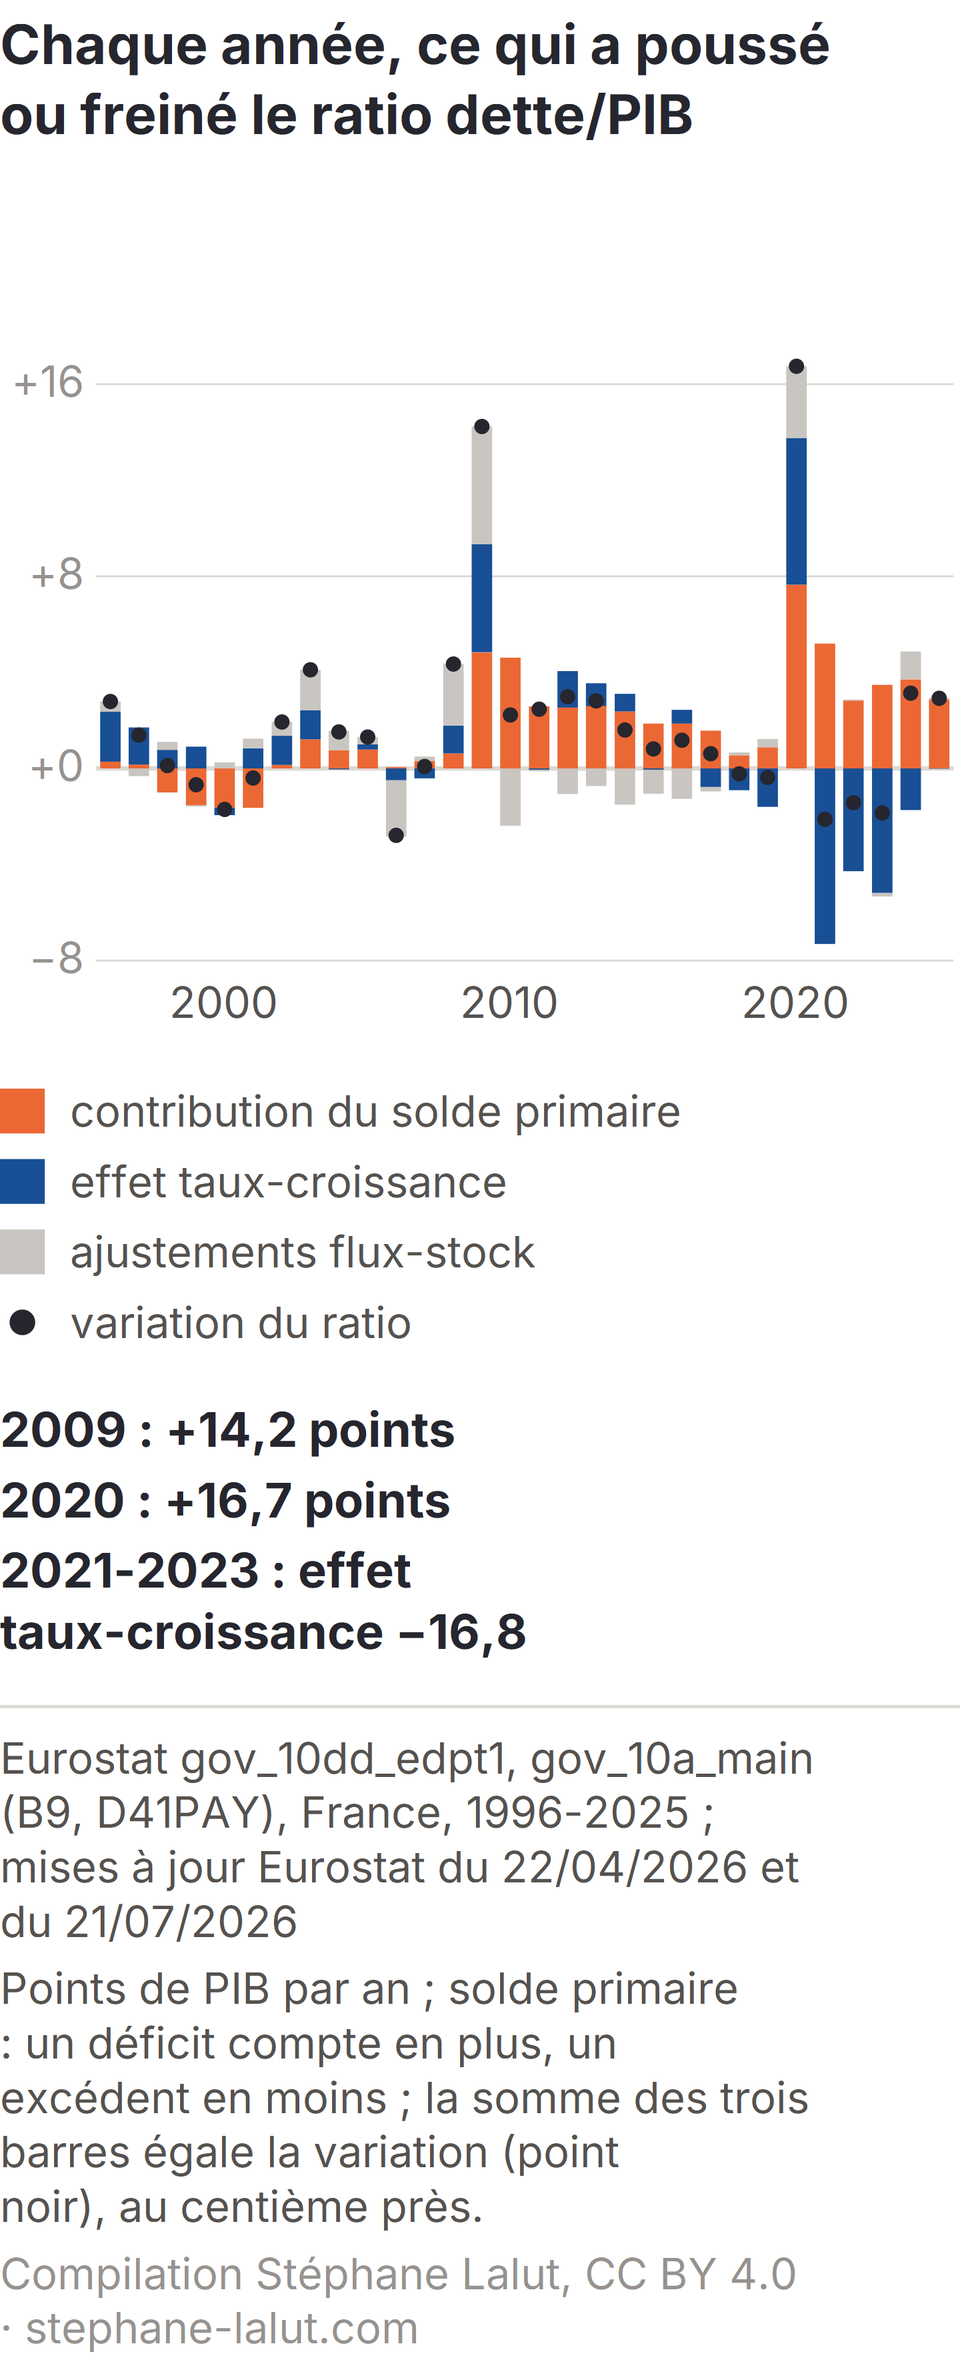
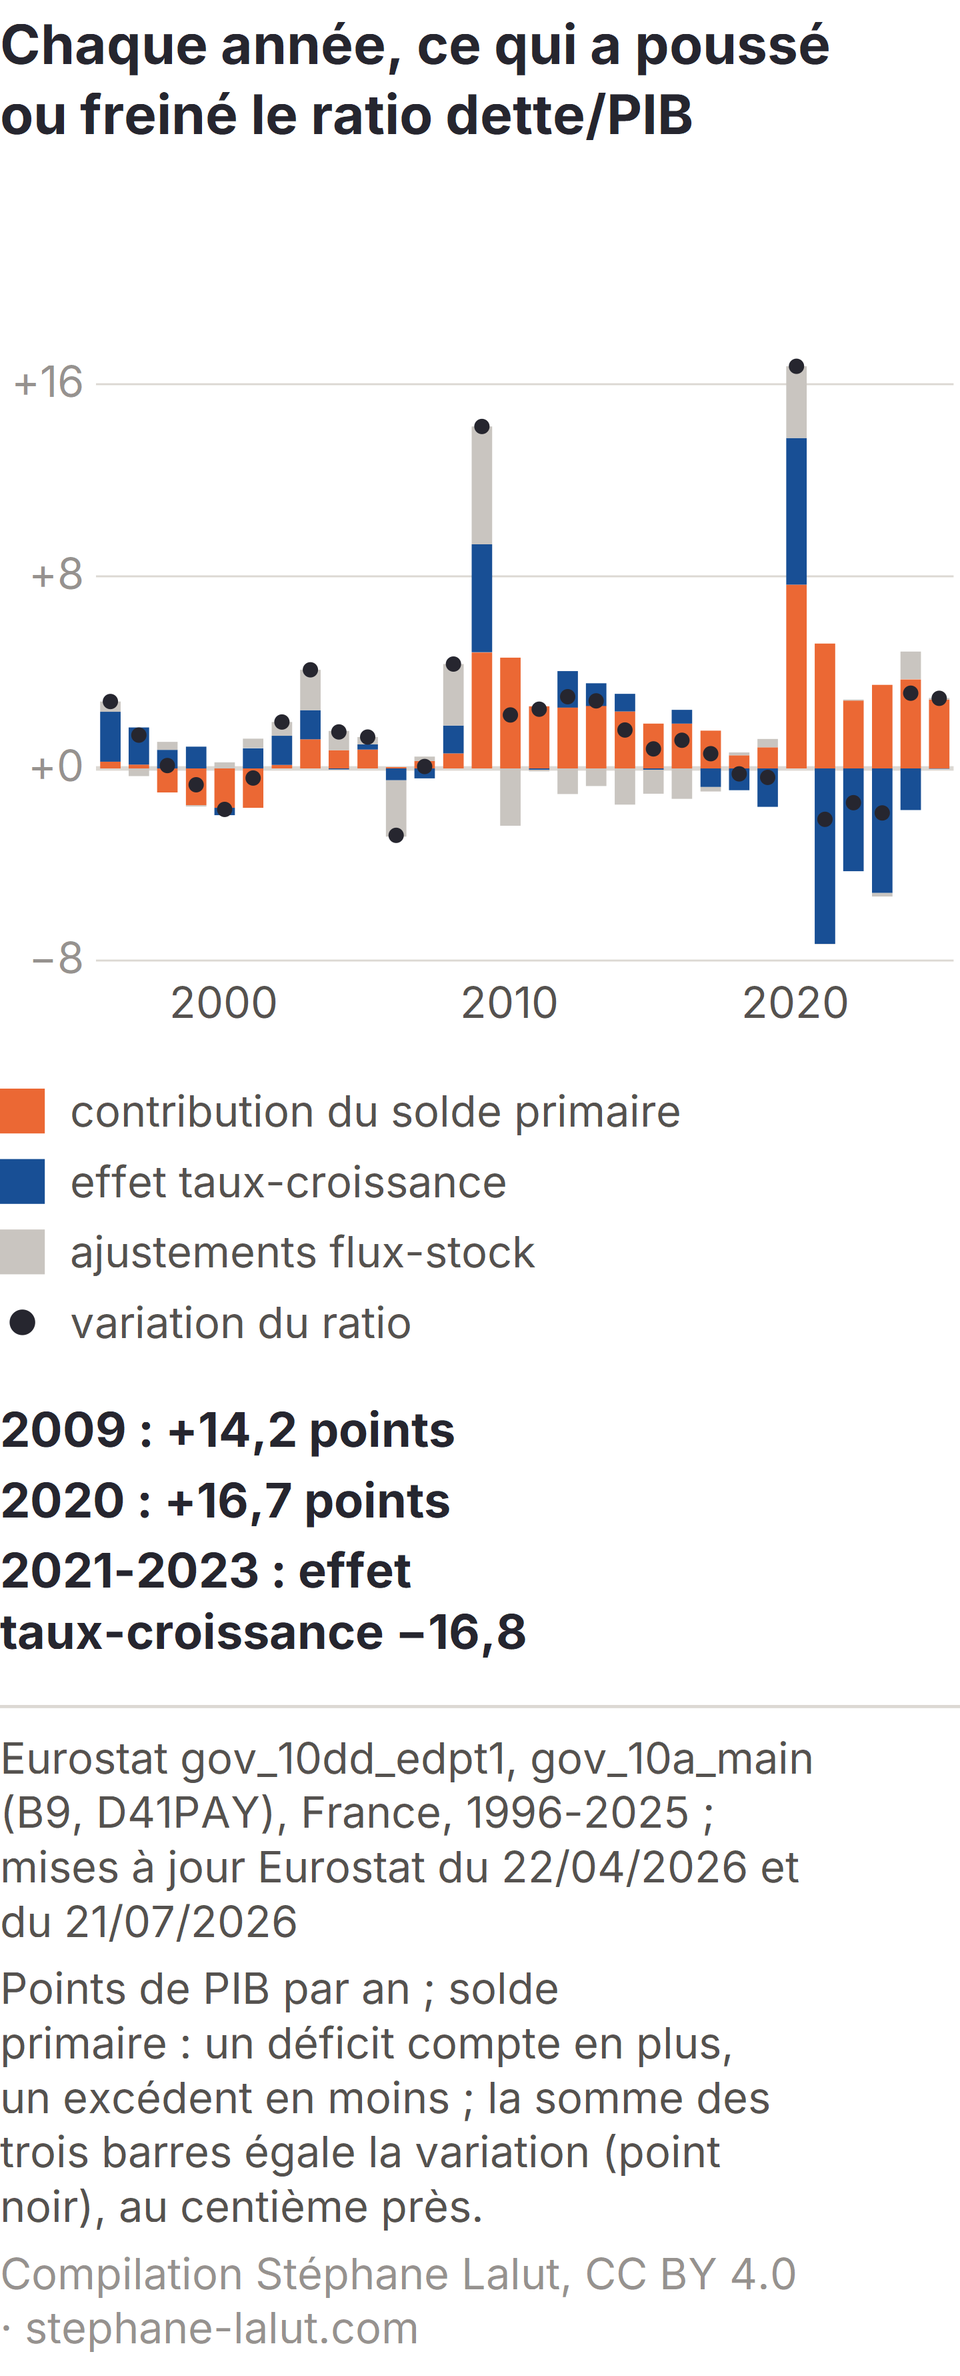
fix(dette): volet 1, OPTIMUM-15 -- ecart Eurostat / INSEE de fin 2025 dit, marge du retournement 2019-2025, FR et EN
- millesime : l'INSEE publie 115,7 % pour fin 2025 contre 115,6 % dans la
  notification d'Eurostat ; la page garde Eurostat d'un bout a l'autre (jeton
  lu dans le jeu du volet 2, garde : ecart non nul et au plus 0,5 point)
- retournement 2019-2025 : la hausse des depenses ne l'emporte que de 0,3 point,
  une revision de cet ordre suffirait a le retourner (garde vue mordre)
- exemple des interets : « sans autre depense, recette ni operation financiere »
- figures : espaces insecables avant « : » et « ; » dans les pieds (coupure
  commune du 11/10) ; donnees et CSV identiques

Controles : generateur (70 cles, parite, hauteurs), build ($?=0), check-all --ci
a 0, audit-liens-build 0 critique.

Changed region(s): [[0.0, 0.8102, 0.8438, 0.9349]]

diff --git a/scripts/update_dette_dynamique.py b/scripts/update_dette_dynamique.py
@@ -522,10 +522,21 @@ def csv_texte(rows):
 
 
 # ------------------------------------------------------------------ affichage et gardes
+def dette_insee_fin(annee: int):
+    """Dette de Maastricht au T4 de la derniere annee selon l'INSEE (data/dette_officielle.json, jeu du volet 2), pour
+    dire l'ecart avec la notification d'Eurostat que la page utilise d'un bout a l'autre (OPTIMUM-15). Absente : None."""
+    try:
+        o = json.loads((ROOT / "data" / "dette_officielle.json").read_text(encoding="utf-8"))
+        return float(o["dette_trimestrielle"]["series"]["pct_pib"]["%d-Q4" % annee])
+    except (OSError, ValueError, KeyError):
+        return None
+
+
 def affichage(a0, d_depart, rows, total, per, dr):
     """Rend (affichage, affichage_en) : deux présentations d'un seul corps de valeurs, puis les gardes (une passe,
     numérique, valable pour les deux langues)."""
     last = rows[-1]
+    insee_fin = dette_insee_fin(last["annee"])
     infl = [r for r in rows if 2021 <= r["annee"] <= 2023]
     by = {r["annee"]: r for r in rows}
 
@@ -576,6 +587,11 @@ def affichage(a0, d_depart, rows, total, per, dr):
         A["croise_dep_hi"] = sg(dr[fen["ofce"][1]]["depenses_hors_interets"] - dr[fen["tresor"][0]]["depenses_hors_interets"])
         # Contre-expertise de la page construite (OPTIMUM-10) : le retournement entre les deux fenêtres de même départ.
         A["rec_fin"] = sg(dr[fen["tresor"][1]]["recettes"] - dr[fen["ofce"][1]]["recettes"])
+        # OPTIMUM-15 : marge du retournement sur la fenetre du Tresor (hausse des depenses hors interets moins recul
+        # des recettes, en points de PIB), et valeur de l'INSEE pour la derniere fin d'annee.
+        A["tresor_marge"] = nb(abs((dr[fen["tresor"][1]]["depenses_hors_interets"] - dr[fen["tresor"][0]]["depenses_hors_interets"])
+                                   + (dr[fen["tresor"][1]]["recettes"] - dr[fen["tresor"][0]]["recettes"])))
+        A["dette_insee_fin"] = nb(insee_fin) if insee_fin is not None else ""
         A["ti_creux_an"] = str(min(rows, key=lambda r: r["taux_implicite_pct"])["annee"])
         A["ti_creux"] = nb(min(r["taux_implicite_pct"] for r in rows), 2)
         A["ti_2021"], A["ti_2022"] = nb(by[2021]["taux_implicite_pct"], 2), nb(by[2022]["taux_implicite_pct"], 2)
@@ -670,6 +686,12 @@ def affichage(a0, d_depart, rows, total, per, dr):
          "recettes remontent de plus d'un demi-point la dernière année : c'est elles qui retournent la conclusion",
          abs((dr[fen["tresor"][1]]["depenses_hors_interets"] - dr[fen["ofce"][1]]["depenses_hors_interets"])) < 0.1
          and dr[fen["tresor"][1]]["recettes"] - dr[fen["ofce"][1]]["recettes"] > 0.5),
+        ("OPTIMUM-15 : le retournement 2019-2025 tient a un ecart mince (moins d'un demi-point) entre hausse des depenses "
+         "hors interets et recul des recettes",
+         0 < (dr[fen["tresor"][1]]["depenses_hors_interets"] - dr[fen["tresor"][0]]["depenses_hors_interets"])
+         + (dr[fen["tresor"][1]]["recettes"] - dr[fen["tresor"][0]]["recettes"]) < 0.5),
+        ("OPTIMUM-15 : l'INSEE publie pour la derniere fin d'annee une valeur voisine mais differente de celle d'Eurostat",
+         insee_fin is not None and 0 < abs(insee_fin - last["dette_pct_pib"]) <= 0.5),
         ("OPTIMUM-10 : « un déficit qui se réduit n'a pas disparu » — le solde primaire de la dernière année reste négatif",
          last["solde_primaire_pct_pib"] < 0),
         ("2009 et 2020 : les deux plus fortes hausses de la série",

diff --git a/content/pourquoi-la-dette-publique-augmente/_index.md b/content/pourquoi-la-dette-publique-augmente/_index.md
@@ -71,7 +71,7 @@ ressource:  # index /ressources/ (layouts/ressources/list.html)
 
 </div>
 
-**Comment des intérêts payés peuvent-ils «&nbsp;s'annuler&nbsp;»&nbsp;?** Ils ne s'annulent pas&nbsp;: ils sont une charge réelle&nbsp;; toutes choses égales par ailleurs, ils augmentent le besoin de financement et contribuent à accroître la dette. Mais la page mesure un ratio, la dette rapportée à la richesse produite dans l'année, et cette richesse grossit elle aussi. Prenez une dette égale au PIB et isolez les intérêts, sans autre dépense ni recette, en les finançant par un nouvel emprunt&nbsp;: si les intérêts de l'année augmentent la dette d'un cinquantième et que le PIB augmente aussi d'un cinquantième, la dette a monté en euros, mais le ratio n'a pas bougé. Les intérêts n'ont pas disparu&nbsp;: c'est la progression du dénominateur qui compense leur effet sur le ratio.
+**Comment des intérêts payés peuvent-ils «&nbsp;s'annuler&nbsp;»&nbsp;?** Ils ne s'annulent pas&nbsp;: ils sont une charge réelle&nbsp;; toutes choses égales par ailleurs, ils augmentent le besoin de financement et contribuent à accroître la dette. Mais la page mesure un ratio, la dette rapportée à la richesse produite dans l'année, et cette richesse grossit elle aussi. Prenez une dette égale au PIB et isolez les intérêts, sans autre dépense, recette ni opération financière, en les finançant par un nouvel emprunt&nbsp;: si les intérêts de l'année augmentent la dette d'un cinquantième et que le PIB augmente aussi d'un cinquantième, la dette a monté en euros, mais le ratio n'a pas bougé. Les intérêts n'ont pas disparu&nbsp;: c'est la progression du dénominateur qui compense leur effet sur le ratio.
 
 Les {{< dyn-val "effet_interets" >}} points «&nbsp;effacés&nbsp;» pour l'essentiel par la croissance sont donc des contributions, cumulées sur trente ans, à l'évolution d'un ratio, pas une somme versée égale à {{< dyn-val "effet_interets" >}}&nbsp;% du PIB. Qui reçoit ces intérêts et qui supporte ce que la dette coûte est l'objet de [Qui paie vraiment la dette publique&nbsp;?](/qui-paie-la-dette-publique/)
 
@@ -95,7 +95,7 @@ Trois périodes se dégagent, et le terme qui domine change de l'une à l'autre.
 
 **Le taux implicite remonte depuis son point bas de {{< dyn-val "ti_creux_an" >}}, surtout par un saut en 2022.** Après {{< dyn-val "ti_creux" >}}&nbsp;% en {{< dyn-val "ti_creux_an" >}}, il augmente légèrement en 2021 ({{< dyn-val "ti_2021" >}}&nbsp;%), bondit en 2022 ({{< dyn-val "ti_2022" >}}&nbsp;%), puis progresse plus lentement. Ce saut ne vient pas seulement du renouvellement des titres aux taux nouveaux&nbsp;: en 2022, l'inflation a aussi fortement accru la charge comptabilisée des obligations de l'État indexées sur les prix, selon le rapport du Sénat sur les comptes de l'année. Les comptes présentés ici ne permettent pas de séparer la part de chaque mécanisme dans le taux implicite de l'ensemble des administrations publiques.
 
-**Les comptes de {{< dyn-val "annee_fin" >}} restent révisables.** Ceux de cette page sont les séries d'Eurostat mises à jour le {{< dyn-val "millesime_dette" >}} pour la dette, avec la notification d'avril, et le {{< dyn-val "millesime_comptes" >}} pour les comptes. Cette année-là, taux implicite ({{< dyn-val "taux_implicite_dernier" >}}&nbsp;%) et croissance nominale ({{< dyn-val "croissance_derniere" >}}&nbsp;%) sont presque égaux, et l'effet taux–croissance est voisin de zéro&nbsp;: un écart aussi mince ne dit pas dans quel sens l'effet ira ensuite.
+**Les comptes de {{< dyn-val "annee_fin" >}} restent révisables.** Ceux de cette page sont les séries d'Eurostat mises à jour le {{< dyn-val "millesime_dette" >}} pour la dette, avec la notification d'avril, et le {{< dyn-val "millesime_comptes" >}} pour les comptes. L'INSEE publie pour fin {{< dyn-val "annee_fin" >}} une dette de {{< dyn-val "dette_insee_fin" >}}&nbsp;% du PIB, contre {{< dyn-val "dette_fin" >}}&nbsp;% dans cette notification&nbsp;: la page garde la série d'Eurostat d'un bout à l'autre, pour que la décomposition reste cohérente, et l'écart se refermera ou non à la notification suivante. Cette année-là, taux implicite ({{< dyn-val "taux_implicite_dernier" >}}&nbsp;%) et croissance nominale ({{< dyn-val "croissance_derniere" >}}&nbsp;%) sont presque égaux, et l'effet taux–croissance est voisin de zéro&nbsp;: un écart aussi mince ne dit pas dans quel sens l'effet ira ensuite.
 
 Sur les {{< dyn-val "annees_total" >}} années de la série, le solde primaire n'a été excédentaire que {{< dyn-val "annees_excedent" >}} fois. Ce décompte décrit une récurrence&nbsp;; il ne dit pas si chacun de ces déficits était souhaitable, évitable ou conjoncturel.
 
@@ -109,7 +109,7 @@ Le déficit primaire est l'écart entre les dépenses hors intérêts et les rec
 
 **Le diagnostic dépend des deux bornes.** Il change avec l'année de départ, mais aussi avec l'année d'arrivée&nbsp;: en finissant en {{< dyn-val "ofce_fin" >}} plutôt qu'en {{< dyn-val "tresor_fin" >}}, la même année de départ donne la conclusion inverse. Deux comparaisons exactes, sur des périodes différentes, peuvent donc conduire à des constats descriptifs opposés — aucune ne suffit, à elle seule, à établir les causes des déficits ni à désigner la politique qu'il aurait fallu conduire. La page mesure un même indicateur d'Eurostat sur ces fenêtres&nbsp;; elle ne rend pas équivalents les travaux de l'OFCE et du Trésor, qui diffèrent aussi par leurs définitions et leurs questions&nbsp;: devant l'une ou l'autre, la première question à poser est «&nbsp;de quelle année à quelle année&nbsp;?&nbsp;». 
 
-**Ce qui retourne la conclusion entre les deux fenêtres qui partent de {{< dyn-val "tresor_debut" >}}, ce sont les recettes.** Les dépenses hors intérêts y varient d'autant, à l'arrondi près&nbsp;; les recettes, elles, remontent de {{< dyn-val "rec_fin" >}} point de PIB en {{< dyn-val "tresor_fin" >}}. C'est l'atténuation du recul des recettes, non un mouvement des dépenses, qui fait basculer leur poids relatif. Ces mouvements sont mesurés en part de PIB&nbsp;: ils peuvent venir du numérateur, du dénominateur, ou des deux. Ce constat descriptif, sur des comptes encore révisables, ne dit pas quelles décisions ont produit cette remontée. Et un déficit qui se réduit n'a pas disparu&nbsp;: en {{< dyn-val "tresor_fin" >}}, le solde primaire reste déficitaire et la dette continue de monter. Ces comparaisons décrivent des mouvements en part de PIB&nbsp;; elles ne disent pas quelles décisions les ont produits, ni ce qu'il faudrait corriger. Ce que l'OFCE et la direction générale du Trésor en concluent, et sur quels objets, est confronté plus bas.
+**Ce qui retourne la conclusion entre les deux fenêtres qui partent de {{< dyn-val "tresor_debut" >}}, ce sont les recettes.** Les dépenses hors intérêts y varient d'autant, à l'arrondi près&nbsp;; les recettes, elles, remontent de {{< dyn-val "rec_fin" >}} point de PIB en {{< dyn-val "tresor_fin" >}}. Sur {{< dyn-val "tresor_debut" >}}-{{< dyn-val "tresor_fin" >}}, la hausse des dépenses ne l'emporte sur le recul des recettes que de {{< dyn-val "tresor_marge" >}}&nbsp;point&nbsp;: une révision des comptes de cet ordre suffirait à retourner le constat. C'est l'atténuation du recul des recettes, non un mouvement des dépenses, qui fait basculer leur poids relatif. Ces mouvements sont mesurés en part de PIB&nbsp;: ils peuvent venir du numérateur, du dénominateur, ou des deux. Ce constat descriptif, sur des comptes encore révisables, ne dit pas quelles décisions ont produit cette remontée. Et un déficit qui se réduit n'a pas disparu&nbsp;: en {{< dyn-val "tresor_fin" >}}, le solde primaire reste déficitaire et la dette continue de monter. Ces comparaisons décrivent des mouvements en part de PIB&nbsp;; elles ne disent pas quelles décisions les ont produits, ni ce qu'il faudrait corriger. Ce que l'OFCE et la direction générale du Trésor en concluent, et sur quels objets, est confronté plus bas.
 
 ## Comment le calcul fonctionne {#identite}
 

diff --git a/content/pourquoi-la-dette-publique-augmente/_index.en.md b/content/pourquoi-la-dette-publique-augmente/_index.en.md
@@ -72,7 +72,7 @@ France is a telling case for a question every indebted country faces. Its debt r
 
 </div>
 
-**How can interest that is paid "cancel out"?** It does not: it is a real charge; other things being equal, it raises the borrowing requirement and adds to the debt. But the page measures a ratio, debt relative to the wealth produced in the year, and that wealth grows too. Take a debt equal to GDP and isolate interest, with no other spending or revenue, financing it with new borrowing: if the year's interest raises the debt by one fiftieth and GDP also rises by one fiftieth, the debt has risen in euros, but the ratio has not moved. The interest has not disappeared: it is the growth of the denominator that offsets its effect on the ratio.
+**How can interest that is paid "cancel out"?** It does not: it is a real charge; other things being equal, it raises the borrowing requirement and adds to the debt. But the page measures a ratio, debt relative to the wealth produced in the year, and that wealth grows too. Take a debt equal to GDP and isolate interest, with no other spending, revenue or financial transaction, financing it with new borrowing: if the year's interest raises the debt by one fiftieth and GDP also rises by one fiftieth, the debt has risen in euros, but the ratio has not moved. The interest has not disappeared: it is the growth of the denominator that offsets its effect on the ratio.
 
 The {{< dyn-val "effet_interets" >}} points mostly "erased" by growth are therefore contributions, cumulated over thirty years, to the change in a ratio, not an amount paid equal to {{< dyn-val "effet_interets" >}}% of GDP. Who receives this interest and who bears what the debt costs is the subject of [Who really pays for public debt?](/en/who-really-pays-public-debt/)
 
@@ -96,7 +96,7 @@ Three periods stand out, and the dominant term changes from one to the next. The
 
 **The implicit interest rate has been rising since its low of {{< dyn-val "ti_creux_an" >}}, mostly through a jump in 2022.** After {{< dyn-val "ti_creux" >}}% in {{< dyn-val "ti_creux_an" >}}, it edges up in 2021 ({{< dyn-val "ti_2021" >}}%), jumps in 2022 ({{< dyn-val "ti_2022" >}}%), then rises more slowly. That jump does not come only from bonds being renewed at the new rates: in 2022, inflation also sharply raised the recorded cost of the State's inflation-linked bonds, according to the French Senate's report on that year's accounts. The accounts presented here do not make it possible to separate the share of each mechanism in the implicit rate of general government as a whole.
 
-**The {{< dyn-val "annee_fin" >}} accounts are still subject to revision.** Those on this page are the Eurostat series released on {{< dyn-val "millesime_dette" >}} for the debt, with the April notification, and on {{< dyn-val "millesime_comptes" >}} for the accounts. That year, the implicit rate ({{< dyn-val "taux_implicite_dernier" >}}%) and nominal growth ({{< dyn-val "croissance_derniere" >}}%) are almost equal, and the interest-growth effect is close to zero: so narrow a gap does not say which way the effect will go next.
+**The {{< dyn-val "annee_fin" >}} accounts are still subject to revision.** Those on this page are the Eurostat series released on {{< dyn-val "millesime_dette" >}} for the debt, with the April notification, and on {{< dyn-val "millesime_comptes" >}} for the accounts. INSEE publishes a debt of {{< dyn-val "dette_insee_fin" >}}% of GDP for the end of {{< dyn-val "annee_fin" >}}, against {{< dyn-val "dette_fin" >}}% in that notification: the page keeps the Eurostat series throughout, so that the decomposition stays consistent, and the gap may or may not close at the next notification. That year, the implicit rate ({{< dyn-val "taux_implicite_dernier" >}}%) and nominal growth ({{< dyn-val "croissance_derniere" >}}%) are almost equal, and the interest-growth effect is close to zero: so narrow a gap does not say which way the effect will go next.
 
 Over the {{< dyn-val "annees_total" >}} years of the series, the primary balance was in surplus only {{< dyn-val "annees_excedent" >}} times. This count describes a recurrence; it does not say whether each of these deficits was desirable, avoidable or cyclical.
 
@@ -110,7 +110,7 @@ The primary deficit is the gap between spending excluding interest and public re
 
 **The diagnosis depends on both ends.** It changes with the start year, but also with the end year: ending in {{< dyn-val "ofce_fin" >}} rather than {{< dyn-val "tresor_fin" >}}, the same start year gives the opposite conclusion. Two accurate comparisons over different periods can therefore lead to opposite descriptive findings — neither, on its own, establishes the causes of the deficits or identifies the policy that should have been pursued. The page measures one Eurostat indicator over these windows; it does not make the OFCE's and the Treasury's work equivalent, as they also differ in their definitions and questions: faced with either, the first question to ask is "from which year to which year?". 
 
-**What reverses the conclusion between the two windows starting in {{< dyn-val "tresor_debut" >}} is revenue.** Spending excluding interest changes by the same amount in both, to within rounding; revenue, for its part, rises by {{< dyn-val "rec_fin" >}} points of GDP in {{< dyn-val "tresor_fin" >}}. It is the easing of the fall in revenue, not a movement in spending, that tips their relative weight. These movements are measured as shares of GDP: they can come from the numerator, the denominator, or both. This descriptive finding, on accounts still subject to revision, does not say which decisions produced that rise. And a shrinking deficit has not disappeared: in {{< dyn-val "tresor_fin" >}}, the primary balance is still in deficit and the debt keeps rising. These comparisons describe movements as a share of GDP; they do not say which decisions produced them, or what should be corrected. What the OFCE and the French Treasury conclude from them, and about which objects, is set against each other below.
+**What reverses the conclusion between the two windows starting in {{< dyn-val "tresor_debut" >}} is revenue.** Spending excluding interest changes by the same amount in both, to within rounding; revenue, for its part, rises by {{< dyn-val "rec_fin" >}} points of GDP in {{< dyn-val "tresor_fin" >}}. Over {{< dyn-val "tresor_debut" >}}-{{< dyn-val "tresor_fin" >}}, the rise in spending outweighs the fall in revenue by only {{< dyn-val "tresor_marge" >}} points: a revision of the accounts of that size would be enough to reverse the finding. It is the easing of the fall in revenue, not a movement in spending, that tips their relative weight. These movements are measured as shares of GDP: they can come from the numerator, the denominator, or both. This descriptive finding, on accounts still subject to revision, does not say which decisions produced that rise. And a shrinking deficit has not disappeared: in {{< dyn-val "tresor_fin" >}}, the primary balance is still in deficit and the debt keeps rising. These comparisons describe movements as a share of GDP; they do not say which decisions produced them, or what should be corrected. What the OFCE and the French Treasury conclude from them, and about which objects, is set against each other below.
 
 ## How the calculation works {#identite}
 
